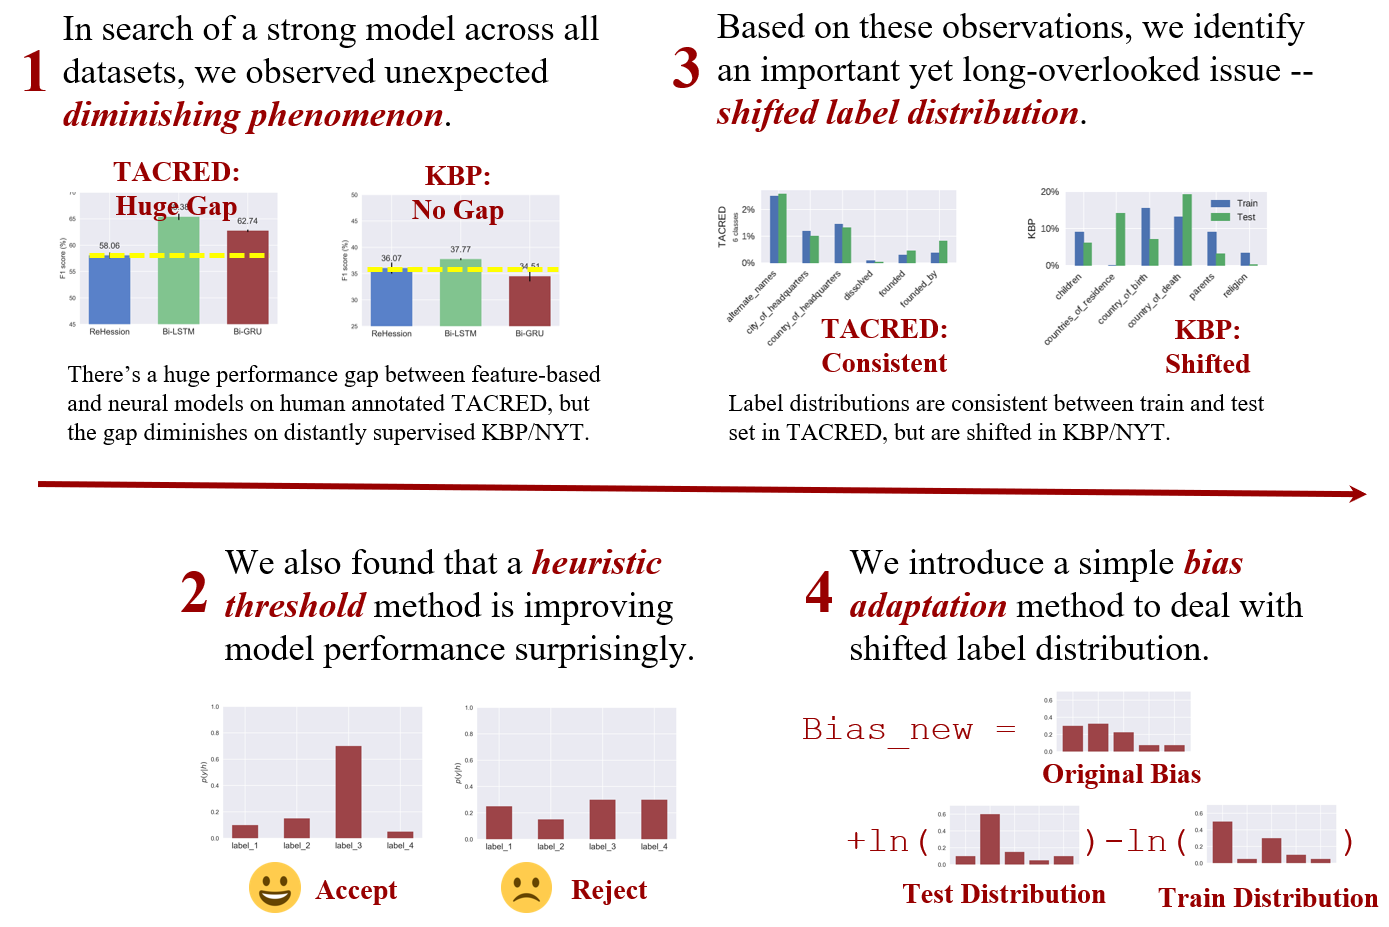
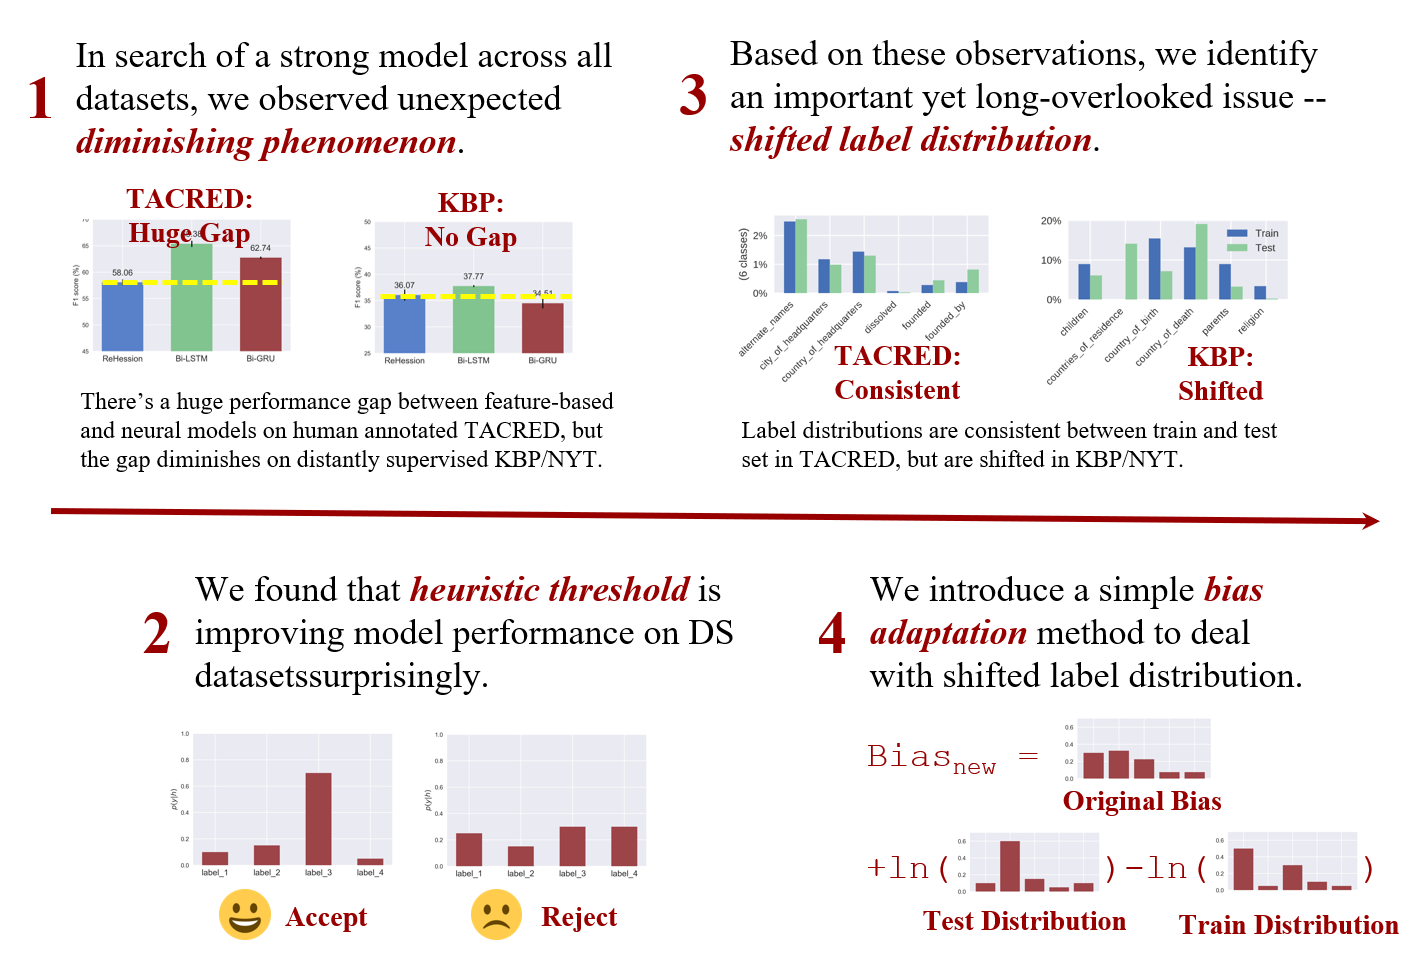
update README; update overview fig.

diff --git a/README.md b/README.md
@@ -1,10 +1,12 @@
 [![License](https://img.shields.io/badge/License-Apache%202.0-blue.svg)](https://opensource.org/licenses/Apache-2.0)
 
 
-<h1 align="center">Shifted Label Distribution Matters</h1>
-<h5 align="center">Looking Beyond Label Noise in Distantly Supervised Relation Extraction</h5>
+<h3 align="center">Looking Beyond Label Noise:</h3>
+<h3 align="center">Shifted Label Distribution Matters in Distantly Supervised Relation Extraction</h3>
 
-TL;DL We identify __shifted label distribution__, an important yet long-overlooked issue in DSRE; introduce a simple yet effective __bias adjustment__ to adapt a trained model along such shift explicitly; release a RE codebase. 
+&nbsp;
+
+__TL;DR__: We identify __shifted label distribution__, an important yet long-overlooked issue in DSRE; introduce a simple yet effective __bias adjustment__ to adapt a trained model along such shift explicitly; release a RE codebase. 
 
 ## Table of Contents
 
@@ -25,21 +27,29 @@ TL;DL We identify __shifted label distribution__, an important yet long-overlook
 
 ## Introduction
 
-We observed __diminishing phenomenon__ in model performance (i.e., neural models outperform feature-based models by a lot on human-annoated dataset, but the gap diminishes on DS datasets.)
-In addtion, we found two __heuristic threshold__ techniques to be effective on DS datasets.
+When we compare different sentence-level RE models, we observe __diminishing phenomenon__ in model performance (_i.e._, neural models outperform feature-based models by a lot on human-annoated dataset, but the gap diminishes on DS datasets.)
+In addtion, we find two __heuristic threshold__ techniques to be effective on DS datasets.
 These observation leads to __shifted label distribution__, an important yet long-overlooked issue in DSRE.
-We further introduced __bias adjustment__ to adapt a trained model along such shift explicitly.
+We further introduce __bias adjustment__ to adapt a trained model along such shift explicitly.
+
+RE=Relation Extraction; DS=Distant Supervision.
 
 <p align="center"><img width="70%" src="overview.png"/></p>
 
-## Example
+## Codebase Overview
 
-__Repository Highlight__: 
 We release code and provide detailed instructions for all models used in the paper, 
 including feature-based models (ReHession, CoType and Logistic Regression) 
 and neural models (Bi-GRU, Bi-LSTM, PCNN, CNN, PositionAware LSTM, Bi-GRU+ATT, PCNN+ATT). 
-Below is an example for ...
 
+Our codebase highlights an integrated framework for sentence-level neural RE models. 
+You can easily customize the settings (dataset, model, hyper-parameters, etc.) by passing command line arguments.
+Check out this example:
+
+```
+python Neural/train.py --model bgru --data_dir data/neural/KBP --lr 1.0 --in_drop 0.6 --intra_drop 0.1 --out_drop 0.6 --info bgru_kbp --repeat 1
+python Neural/eva.py --info bgru_kbp --repeat 1
+```
 ## Training Recipes
 
 ### Environment Setup
@@ -82,9 +92,9 @@ Run `conda activate shifted-neural` first to activate the environment for neural
 
 
 ## Reference
-Please cite the following paper if you find the paper and the code to be useful : -)
+Please cite the following paper if you find the paper and the code to be useful :-)
 ```
-@inproceedings{ye2019shifted,
+@inproceedings{ye2019looking,
  title={Looking Beyond Label Noise: Shifted Label Distribution Matters in Distantly Supervised Relation Extraction},
  author={Ye, Qinyuan and Liu, Liyuan and Zhang, Maosen and Ren, Xiang},
  booktitle={Proc. of EMNLP-IJCNLP},
